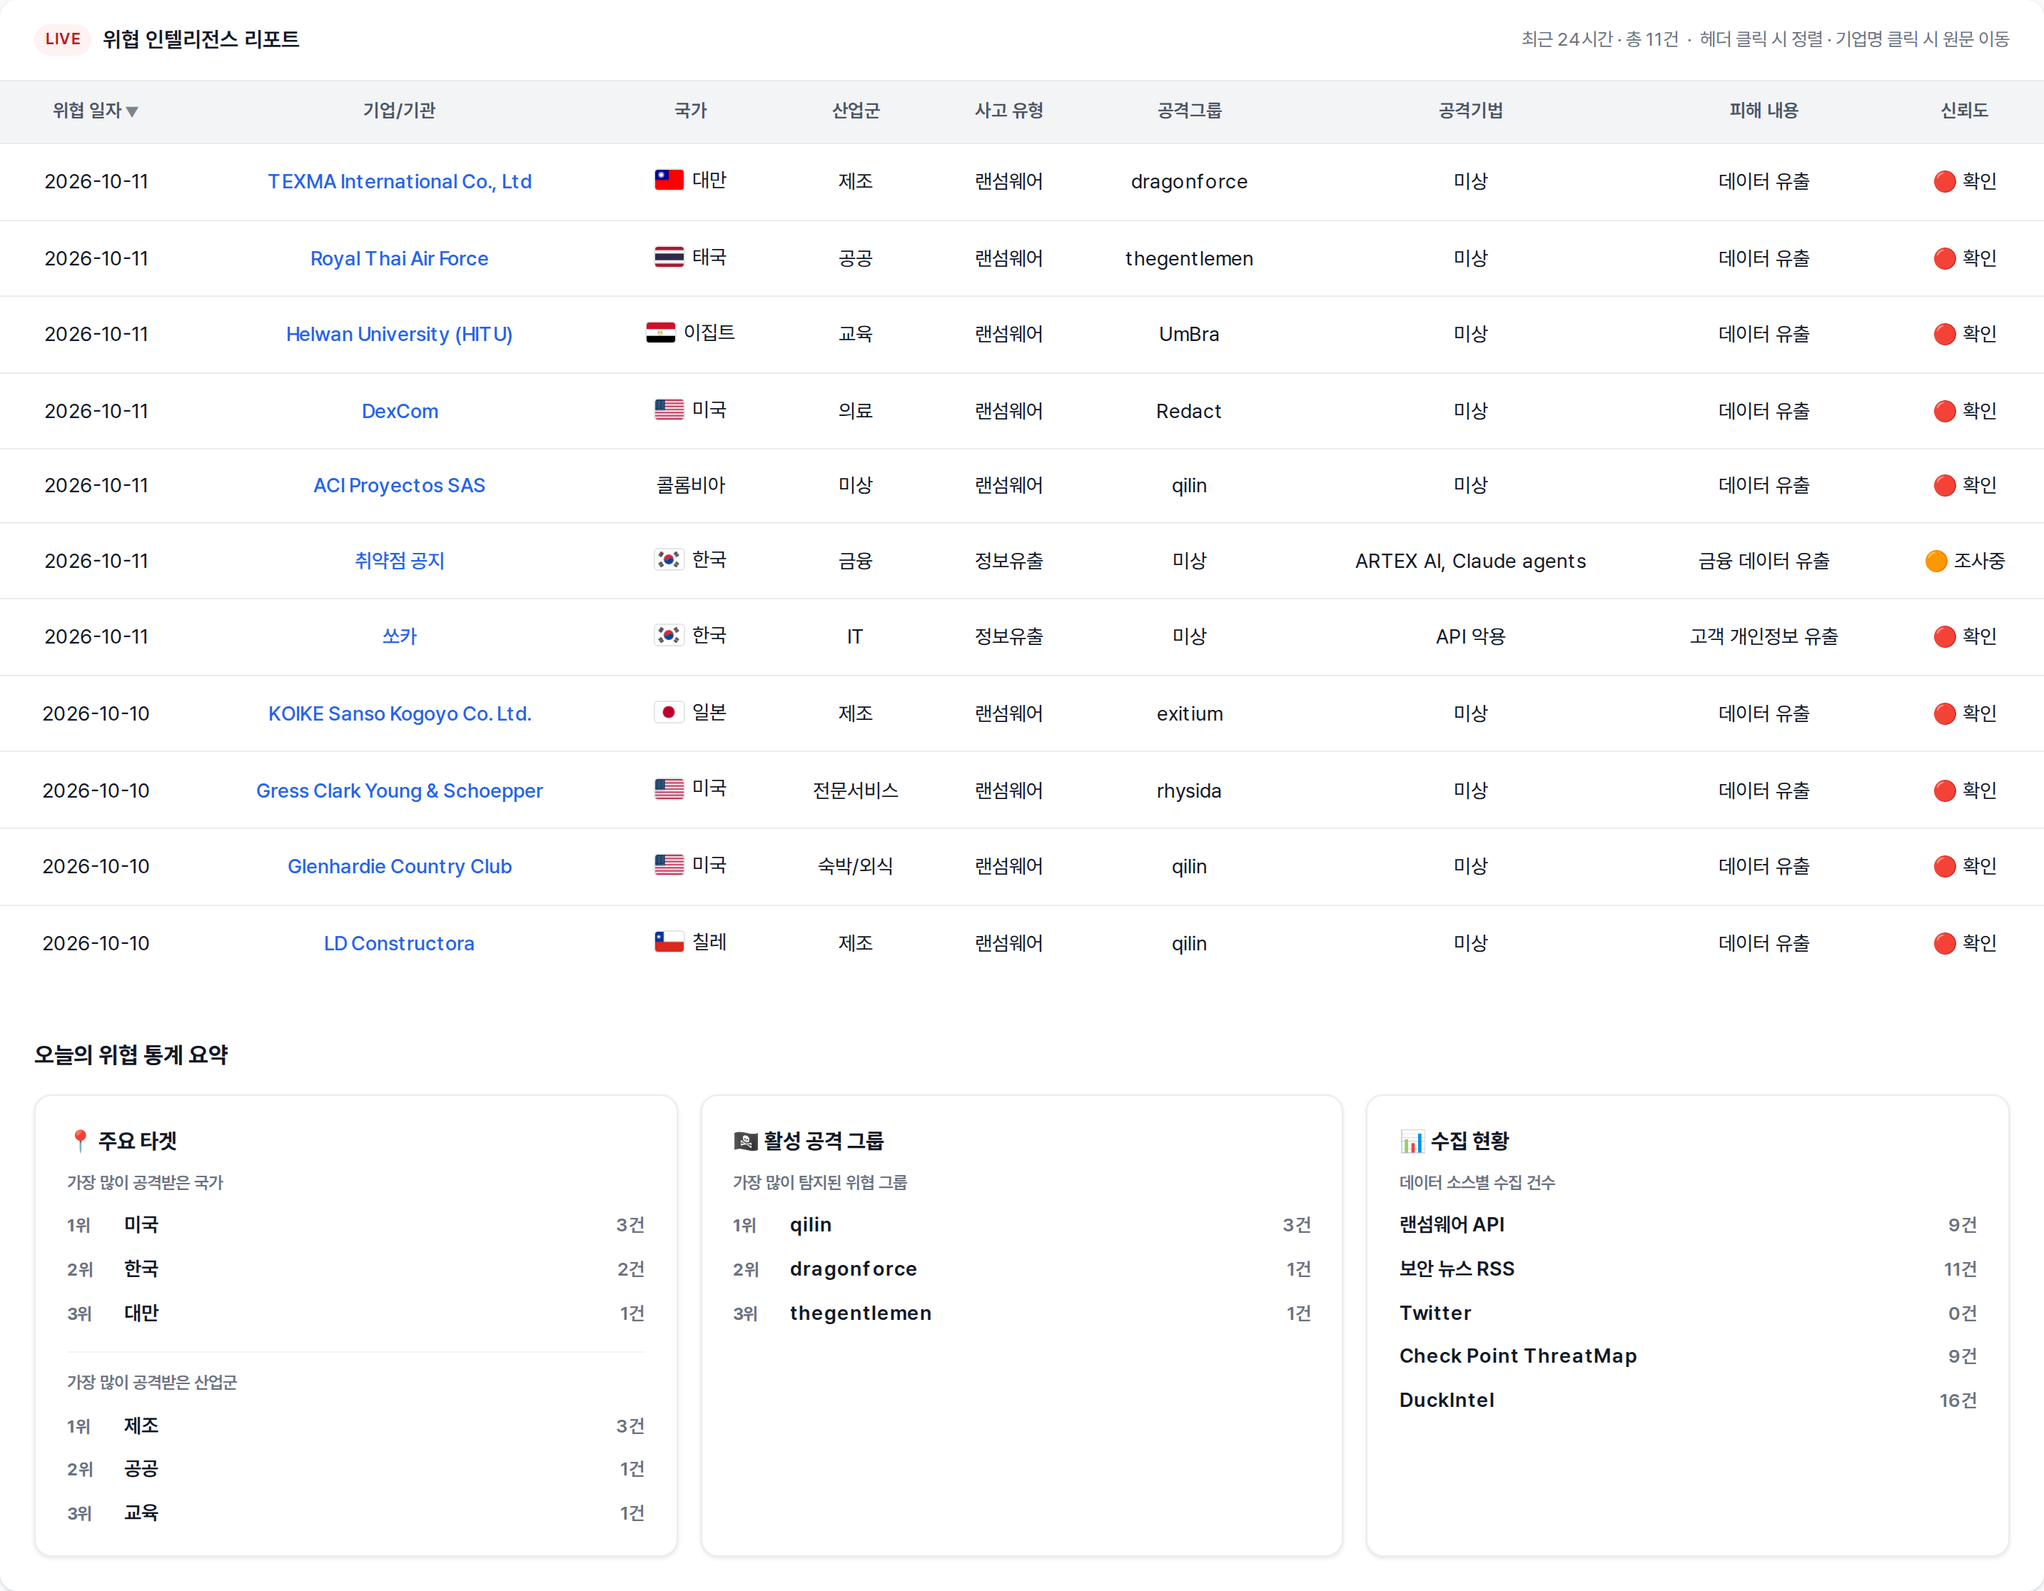
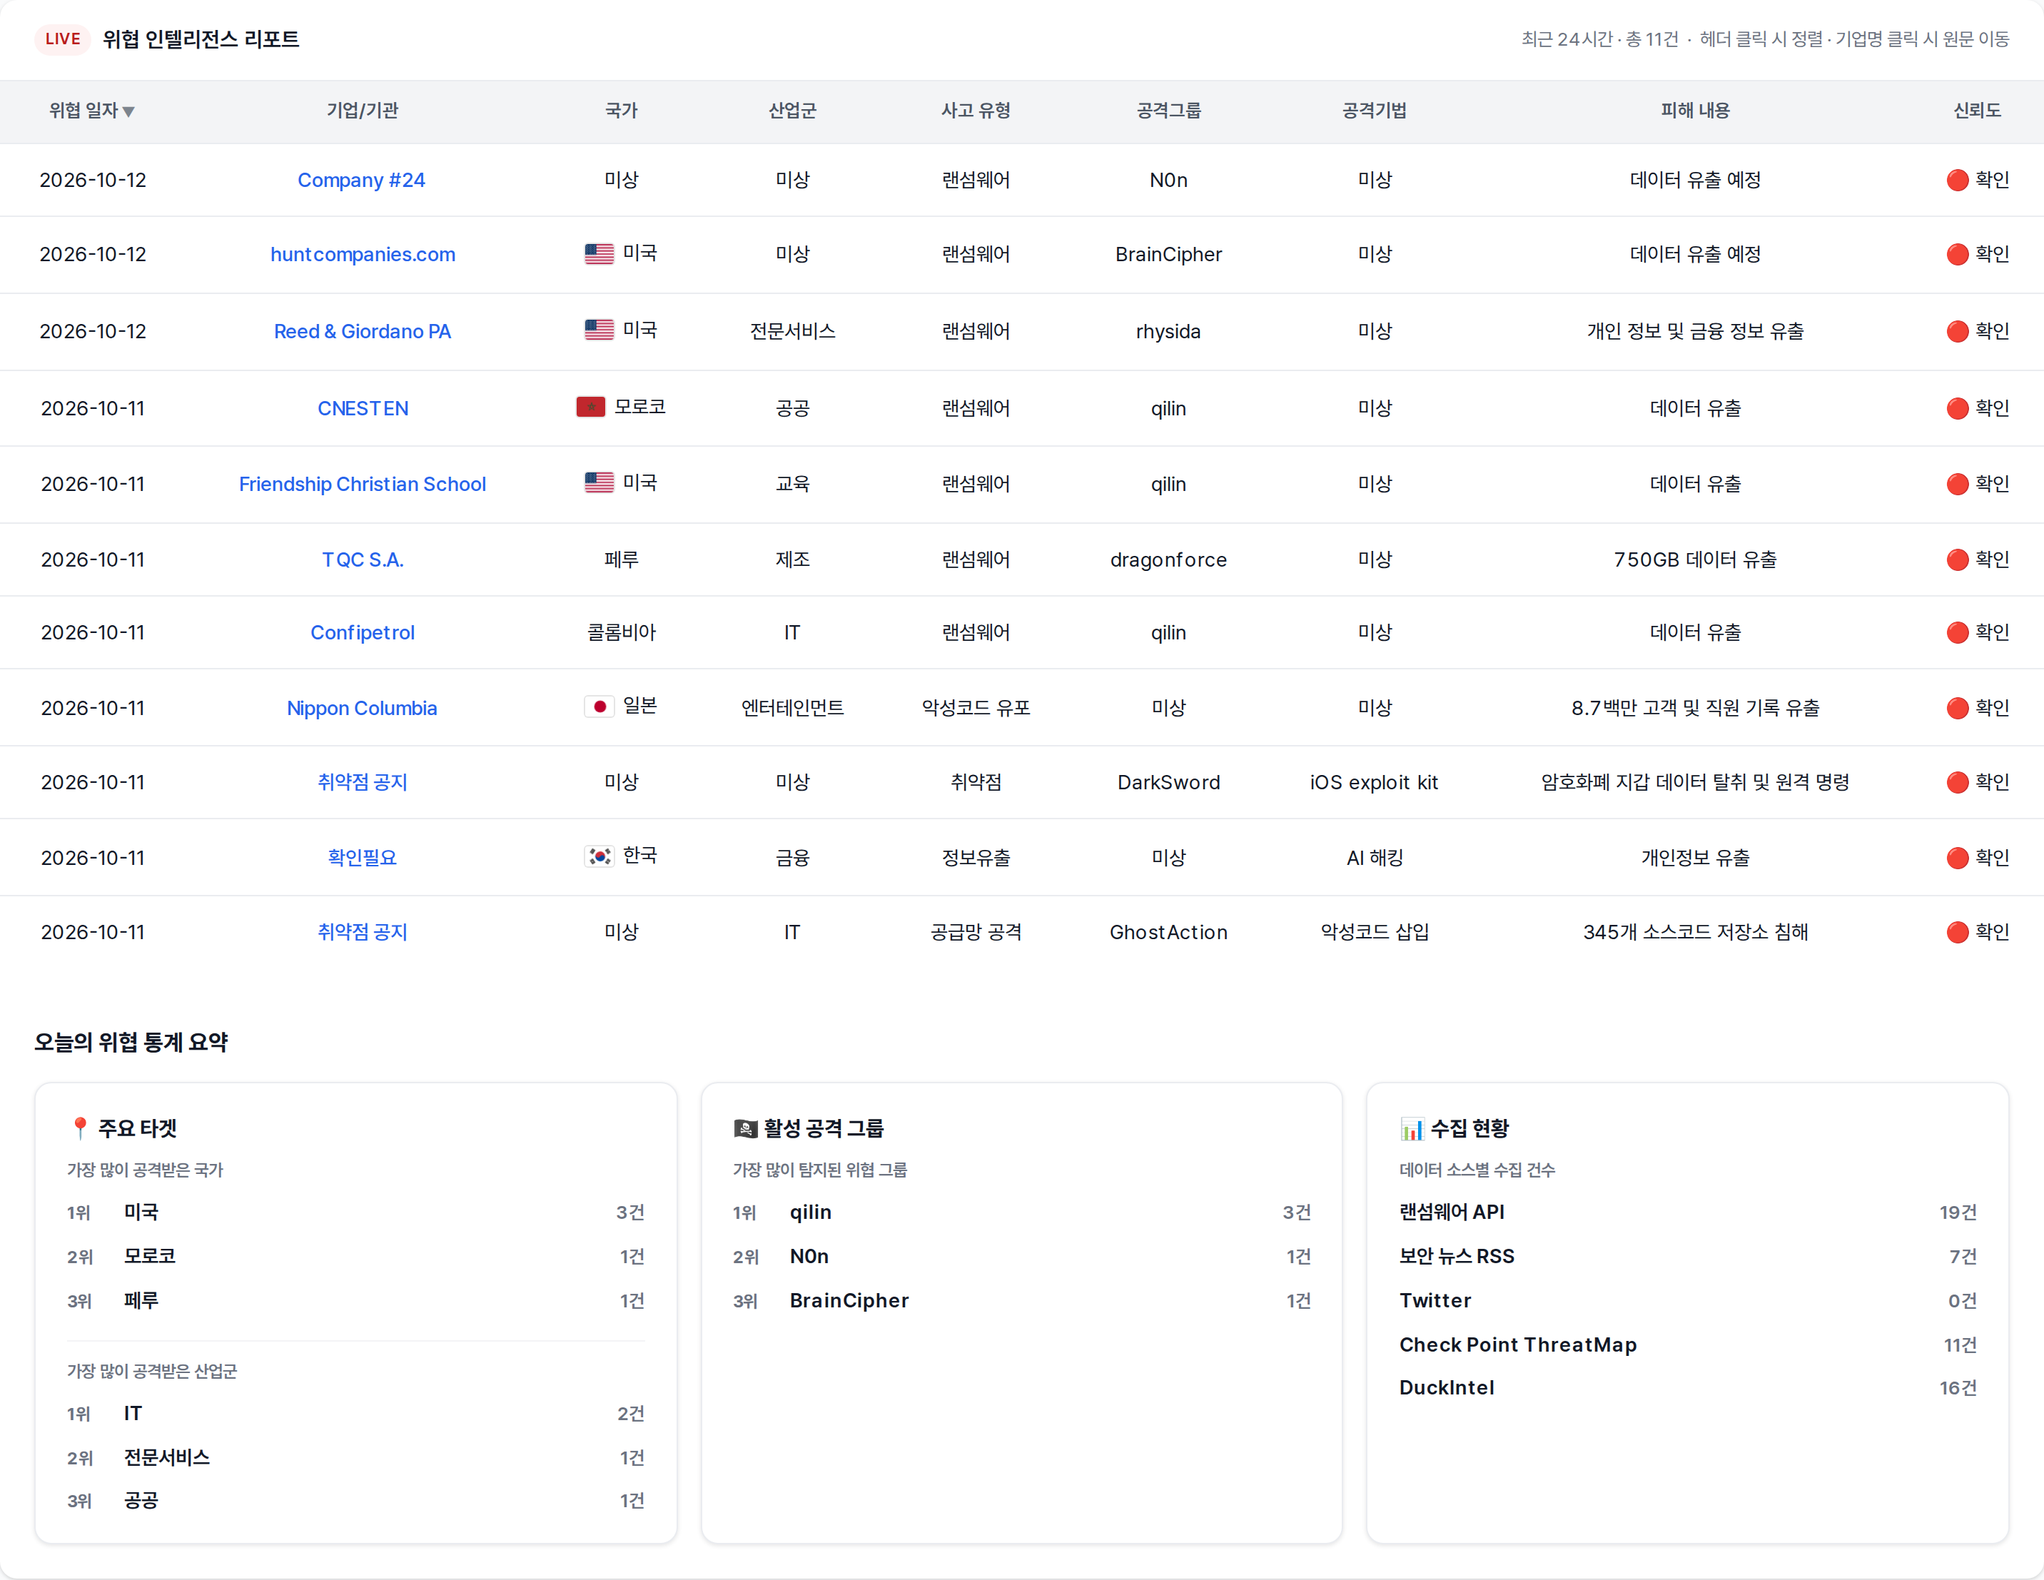
deploy: 9c533ad8fcaa3f846a31aadab046301a26f1192c

diff --git a/index.html b/index.html
@@ -3,7 +3,7 @@
 <head>
   <meta charset="UTF-8" />
   <meta name="viewport" content="width=device-width, initial-scale=1.0" />
-  <title>🚨 2026년 10월 11일 국내/해외 사이버 위협 현황</title>
+  <title>🚨 2026년 10월 12일 국내/해외 사이버 위협 현황</title>
   <link rel="preconnect" href="https://cdn.jsdelivr.net" />
   <link href="https://cdn.jsdelivr.net/gh/orioncactus/pretendard/dist/web/static/pretendard.css" rel="stylesheet" />
   <style>
@@ -253,7 +253,7 @@
 </head>
 <body>
   <div class="page-header">
-    <h1 class="page-title">🚨 2026년 10월 11일 국내/해외 사이버 위협 현황</h1>
+    <h1 class="page-title">🚨 2026년 10월 12일 국내/해외 사이버 위협 현황</h1>
   </div>
 
   <div class="dashboard">
@@ -267,17 +267,17 @@
       <table id="threat-table">
         <thead><tr><th onclick="sortTable(0)" data-col="0" class="sort-desc">위협 일자</th><th onclick="sortTable(1)" data-col="1">기업/기관</th><th onclick="sortTable(2)" data-col="2">국가</th><th onclick="sortTable(3)" data-col="3">산업군</th><th onclick="sortTable(4)" data-col="4">사고 유형</th><th onclick="sortTable(5)" data-col="5">공격그룹</th><th onclick="sortTable(6)" data-col="6">공격기법</th><th onclick="sortTable(7)" data-col="7">피해 내용</th><th onclick="sortTable(8)" data-col="8">신뢰도</th></tr></thead>
         <tbody>
-<tr><td>2026-10-11</td><td><a href="https://www.ransomware.live/id/VEVYTUEgSW50ZXJuYXRpb25hbCBDby4sIEx0ZEBkcmFnb25mb3JjZQ==" target="_blank" rel="noopener noreferrer">TEXMA International Co., Ltd</a></td><td class="country"><span class="country-cell"><img class="flag" src="https://flagcdn.com/w40/tw.png" alt="대만" width="20" height="14" />대만</span></td><td>제조</td><td>랜섬웨어</td><td>dragonforce</td><td>미상</td><td>데이터 유출</td><td>🔴 확인</td></tr>
-<tr><td>2026-10-11</td><td><a href="https://www.ransomware.live/id/Um95YWwgVGhhaSBBaXIgRm9yY2VAdGhlZ2VudGxlbWVu" target="_blank" rel="noopener noreferrer">Royal Thai Air Force</a></td><td class="country"><span class="country-cell"><img class="flag" src="https://flagcdn.com/w40/th.png" alt="태국" width="20" height="14" />태국</span></td><td>공공</td><td>랜섬웨어</td><td>thegentlemen</td><td>미상</td><td>데이터 유출</td><td>🔴 확인</td></tr>
-<tr><td>2026-10-11</td><td><a href="https://www.ransomware.live/id/SGVsd2FuIFVuaXZlcnNpdHkgKEhJVFUpQFVtQnJh" target="_blank" rel="noopener noreferrer">Helwan University (HITU)</a></td><td class="country"><span class="country-cell"><img class="flag" src="https://flagcdn.com/w40/eg.png" alt="이집트" width="20" height="14" />이집트</span></td><td>교육</td><td>랜섬웨어</td><td>UmBra</td><td>미상</td><td>데이터 유출</td><td>🔴 확인</td></tr>
-<tr><td>2026-10-11</td><td><a href="https://www.ransomware.live/id/RGV4Q29tQFJlZGFjdA==" target="_blank" rel="noopener noreferrer">DexCom</a></td><td class="country"><span class="country-cell"><img class="flag" src="https://flagcdn.com/w40/us.png" alt="미국" width="20" height="14" />미국</span></td><td>의료</td><td>랜섬웨어</td><td>Redact</td><td>미상</td><td>데이터 유출</td><td>🔴 확인</td></tr>
-<tr><td>2026-10-11</td><td><a href="https://www.ransomware.live/id/QUNJIFByb3llY3RvcyBTQVNAcWlsaW4=" target="_blank" rel="noopener noreferrer">ACI Proyectos SAS</a></td><td class="country"><span class="country-cell">콜롬비아</span></td><td>미상</td><td>랜섬웨어</td><td>qilin</td><td>미상</td><td>데이터 유출</td><td>🔴 확인</td></tr>
-<tr><td>2026-10-11</td><td><a href="https://www.bleepingcomputer.com/news/security/hacker-used-artex-ai-and-claude-agents-to-target-south-korean-banks/" target="_blank" rel="noopener noreferrer">취약점 공지</a></td><td class="country"><span class="country-cell"><img class="flag" src="https://flagcdn.com/w40/kr.png" alt="한국" width="20" height="14" />한국</span></td><td>금융</td><td>정보유출</td><td>미상</td><td>ARTEX AI, Claude agents</td><td>금융 데이터 유출</td><td>🟠 조사중</td></tr>
-<tr><td>2026-10-11</td><td><a href="https://www.dailysecu.com/news/articleView.html?idxno=208813" target="_blank" rel="noopener noreferrer">쏘카</a></td><td class="country"><span class="country-cell"><img class="flag" src="https://flagcdn.com/w40/kr.png" alt="한국" width="20" height="14" />한국</span></td><td>IT</td><td>정보유출</td><td>미상</td><td>API 악용</td><td>고객 개인정보 유출</td><td>🔴 확인</td></tr>
-<tr><td>2026-10-10</td><td><a href="https://www.ransomware.live/id/S09JS0UgU2Fuc28gS29nb3lvIENvLiBMdGQuQGV4aXRpdW0=" target="_blank" rel="noopener noreferrer">KOIKE Sanso Kogoyo Co. Ltd.</a></td><td class="country"><span class="country-cell"><img class="flag" src="https://flagcdn.com/w40/jp.png" alt="일본" width="20" height="14" />일본</span></td><td>제조</td><td>랜섬웨어</td><td>exitium</td><td>미상</td><td>데이터 유출</td><td>🔴 확인</td></tr>
-<tr><td>2026-10-10</td><td><a href="https://www.ransomware.live/id/R3Jlc3MgQ2xhcmsgWW91bmcgJiBTY2hvZXBwZXJAcmh5c2lkYQ==" target="_blank" rel="noopener noreferrer">Gress Clark Young &amp; Schoepper</a></td><td class="country"><span class="country-cell"><img class="flag" src="https://flagcdn.com/w40/us.png" alt="미국" width="20" height="14" />미국</span></td><td>전문서비스</td><td>랜섬웨어</td><td>rhysida</td><td>미상</td><td>데이터 유출</td><td>🔴 확인</td></tr>
-<tr><td>2026-10-10</td><td><a href="https://www.ransomware.live/id/R2xlbmhhcmRpZSBDb3VudHJ5IENsdWJAcWlsaW4=" target="_blank" rel="noopener noreferrer">Glenhardie Country Club</a></td><td class="country"><span class="country-cell"><img class="flag" src="https://flagcdn.com/w40/us.png" alt="미국" width="20" height="14" />미국</span></td><td>숙박/외식</td><td>랜섬웨어</td><td>qilin</td><td>미상</td><td>데이터 유출</td><td>🔴 확인</td></tr>
-<tr><td>2026-10-10</td><td><a href="https://www.ransomware.live/id/TEQgQ29uc3RydWN0b3JhQHFpbGlu" target="_blank" rel="noopener noreferrer">LD Constructora</a></td><td class="country"><span class="country-cell"><img class="flag" src="https://flagcdn.com/w40/cl.png" alt="칠레" width="20" height="14" />칠레</span></td><td>제조</td><td>랜섬웨어</td><td>qilin</td><td>미상</td><td>데이터 유출</td><td>🔴 확인</td></tr>
+<tr><td>2026-10-12</td><td><a href="https://www.ransomware.live/id/Q29tcGFueSAjMjRATjBu" target="_blank" rel="noopener noreferrer">Company #24</a></td><td class="country"><span class="country-cell">미상</span></td><td>미상</td><td>랜섬웨어</td><td>N0n</td><td>미상</td><td>데이터 유출 예정</td><td>🔴 확인</td></tr>
+<tr><td>2026-10-12</td><td><a href="https://www.ransomware.live/id/aHVudGNvbXBhbmllcy5jb21AQnJhaW5DaXBoZXI=" target="_blank" rel="noopener noreferrer">huntcompanies.com</a></td><td class="country"><span class="country-cell"><img class="flag" src="https://flagcdn.com/w40/us.png" alt="미국" width="20" height="14" />미국</span></td><td>미상</td><td>랜섬웨어</td><td>BrainCipher</td><td>미상</td><td>데이터 유출 예정</td><td>🔴 확인</td></tr>
+<tr><td>2026-10-12</td><td><a href="https://www.ransomware.live/id/UmVlZCAmIEdpb3JkYW5vIFBBQHJoeXNpZGE=" target="_blank" rel="noopener noreferrer">Reed &amp; Giordano PA</a></td><td class="country"><span class="country-cell"><img class="flag" src="https://flagcdn.com/w40/us.png" alt="미국" width="20" height="14" />미국</span></td><td>전문서비스</td><td>랜섬웨어</td><td>rhysida</td><td>미상</td><td>개인 정보 및 금융 정보 유출</td><td>🔴 확인</td></tr>
+<tr><td>2026-10-11</td><td><a href="https://www.ransomware.live/id/Q05FU1RFTkBxaWxpbg==" target="_blank" rel="noopener noreferrer">CNESTEN</a></td><td class="country"><span class="country-cell"><img class="flag" src="https://flagcdn.com/w40/ma.png" alt="모로코" width="20" height="14" />모로코</span></td><td>공공</td><td>랜섬웨어</td><td>qilin</td><td>미상</td><td>데이터 유출</td><td>🔴 확인</td></tr>
+<tr><td>2026-10-11</td><td><a href="https://www.ransomware.live/id/RnJpZW5kc2hpcCBDaHJpc3RpYW4gU2Nob29sQHFpbGlu" target="_blank" rel="noopener noreferrer">Friendship Christian School</a></td><td class="country"><span class="country-cell"><img class="flag" src="https://flagcdn.com/w40/us.png" alt="미국" width="20" height="14" />미국</span></td><td>교육</td><td>랜섬웨어</td><td>qilin</td><td>미상</td><td>데이터 유출</td><td>🔴 확인</td></tr>
+<tr><td>2026-10-11</td><td><a href="https://www.ransomware.live/id/VFFDIFMuQS5AZHJhZ29uZm9yY2U=" target="_blank" rel="noopener noreferrer">TQC S.A.</a></td><td class="country"><span class="country-cell">페루</span></td><td>제조</td><td>랜섬웨어</td><td>dragonforce</td><td>미상</td><td>750GB 데이터 유출</td><td>🔴 확인</td></tr>
+<tr><td>2026-10-11</td><td><a href="https://www.ransomware.live/id/Q29uZmlwZXRyb2xAcWlsaW4=" target="_blank" rel="noopener noreferrer">Confipetrol</a></td><td class="country"><span class="country-cell">콜롬비아</span></td><td>IT</td><td>랜섬웨어</td><td>qilin</td><td>미상</td><td>데이터 유출</td><td>🔴 확인</td></tr>
+<tr><td>2026-10-11</td><td><a href="https://www.bleepingcomputer.com/news/security/nippon-columbia-malware-incident-exposes-86-million-karaoke-fan-records/" target="_blank" rel="noopener noreferrer">Nippon Columbia</a></td><td class="country"><span class="country-cell"><img class="flag" src="https://flagcdn.com/w40/jp.png" alt="일본" width="20" height="14" />일본</span></td><td>엔터테인먼트</td><td>악성코드 유포</td><td>미상</td><td>미상</td><td>8.7백만 고객 및 직원 기록 유출</td><td>🔴 확인</td></tr>
+<tr><td>2026-10-11</td><td><a href="https://thehackernews.com/2026/10/p7-darksword-ios-exploit-kit-adds.html" target="_blank" rel="noopener noreferrer">취약점 공지</a></td><td class="country"><span class="country-cell">미상</span></td><td>미상</td><td>취약점</td><td>DarkSword</td><td>iOS exploit kit</td><td>암호화폐 지갑 데이터 탈취 및 원격 명령</td><td>🔴 확인</td></tr>
+<tr><td>2026-10-11</td><td><a href="https://www.dailysecu.com/news/articleView.html?idxno=208822" target="_blank" rel="noopener noreferrer">확인필요</a></td><td class="country"><span class="country-cell"><img class="flag" src="https://flagcdn.com/w40/kr.png" alt="한국" width="20" height="14" />한국</span></td><td>금융</td><td>정보유출</td><td>미상</td><td>AI 해킹</td><td>개인정보 유출</td><td>🔴 확인</td></tr>
+<tr><td>2026-10-11</td><td><a href="https://www.dailysecu.com/news/articleView.html?idxno=208821" target="_blank" rel="noopener noreferrer">취약점 공지</a></td><td class="country"><span class="country-cell">미상</span></td><td>IT</td><td>공급망 공격</td><td>GhostAction</td><td>악성코드 삽입</td><td>345개 소스코드 저장소 침해</td><td>🔴 확인</td></tr>
         </tbody>
       </table>
     </div>
@@ -288,19 +288,19 @@
       <article class="stat-card">
         <h3 class="stat-title">📍 주요 타겟</h3>
         <p class="stat-subtitle">가장 많이 공격받은 국가</p>
-        <ol class="stat-list"><li><span class="stat-rank">1위</span><span class="stat-name">미국</span><span class="stat-count">3건</span></li><li><span class="stat-rank">2위</span><span class="stat-name">한국</span><span class="stat-count">2건</span></li><li><span class="stat-rank">3위</span><span class="stat-name">대만</span><span class="stat-count">1건</span></li></ol>
+        <ol class="stat-list"><li><span class="stat-rank">1위</span><span class="stat-name">미국</span><span class="stat-count">3건</span></li><li><span class="stat-rank">2위</span><span class="stat-name">모로코</span><span class="stat-count">1건</span></li><li><span class="stat-rank">3위</span><span class="stat-name">페루</span><span class="stat-count">1건</span></li></ol>
         <p class="stat-subtitle stat-subtitle-gap">가장 많이 공격받은 산업군</p>
-        <ol class="stat-list"><li><span class="stat-rank">1위</span><span class="stat-name">제조</span><span class="stat-count">3건</span></li><li><span class="stat-rank">2위</span><span class="stat-name">공공</span><span class="stat-count">1건</span></li><li><span class="stat-rank">3위</span><span class="stat-name">교육</span><span class="stat-count">1건</span></li></ol>
+        <ol class="stat-list"><li><span class="stat-rank">1위</span><span class="stat-name">IT</span><span class="stat-count">2건</span></li><li><span class="stat-rank">2위</span><span class="stat-name">전문서비스</span><span class="stat-count">1건</span></li><li><span class="stat-rank">3위</span><span class="stat-name">공공</span><span class="stat-count">1건</span></li></ol>
       </article>
       <article class="stat-card">
         <h3 class="stat-title">🏴☠ 활성 공격 그룹</h3>
         <p class="stat-subtitle">가장 많이 탐지된 위협 그룹</p>
-        <ol class="stat-list"><li><span class="stat-rank">1위</span><span class="stat-name">qilin</span><span class="stat-count">3건</span></li><li><span class="stat-rank">2위</span><span class="stat-name">dragonforce</span><span class="stat-count">1건</span></li><li><span class="stat-rank">3위</span><span class="stat-name">thegentlemen</span><span class="stat-count">1건</span></li></ol>
+        <ol class="stat-list"><li><span class="stat-rank">1위</span><span class="stat-name">qilin</span><span class="stat-count">3건</span></li><li><span class="stat-rank">2위</span><span class="stat-name">N0n</span><span class="stat-count">1건</span></li><li><span class="stat-rank">3위</span><span class="stat-name">BrainCipher</span><span class="stat-count">1건</span></li></ol>
       </article>
       <article class="stat-card">
         <h3 class="stat-title">📊 수집 현황</h3>
         <p class="stat-subtitle">데이터 소스별 수집 건수</p>
-        <ul class="stat-list stat-sources"><li><span class="stat-name">랜섬웨어 API</span><span class="stat-count">9건</span></li><li><span class="stat-name">보안 뉴스 RSS</span><span class="stat-count">11건</span></li><li><span class="stat-name">Twitter</span><span class="stat-count">0건</span></li><li><span class="stat-name">Check Point ThreatMap</span><span class="stat-count">9건</span></li><li><span class="stat-name">DuckIntel</span><span class="stat-count">16건</span></li></ul>
+        <ul class="stat-list stat-sources"><li><span class="stat-name">랜섬웨어 API</span><span class="stat-count">19건</span></li><li><span class="stat-name">보안 뉴스 RSS</span><span class="stat-count">7건</span></li><li><span class="stat-name">Twitter</span><span class="stat-count">0건</span></li><li><span class="stat-name">Check Point ThreatMap</span><span class="stat-count">11건</span></li><li><span class="stat-name">DuckIntel</span><span class="stat-count">16건</span></li></ul>
       </article>
     </div>
   </section>
